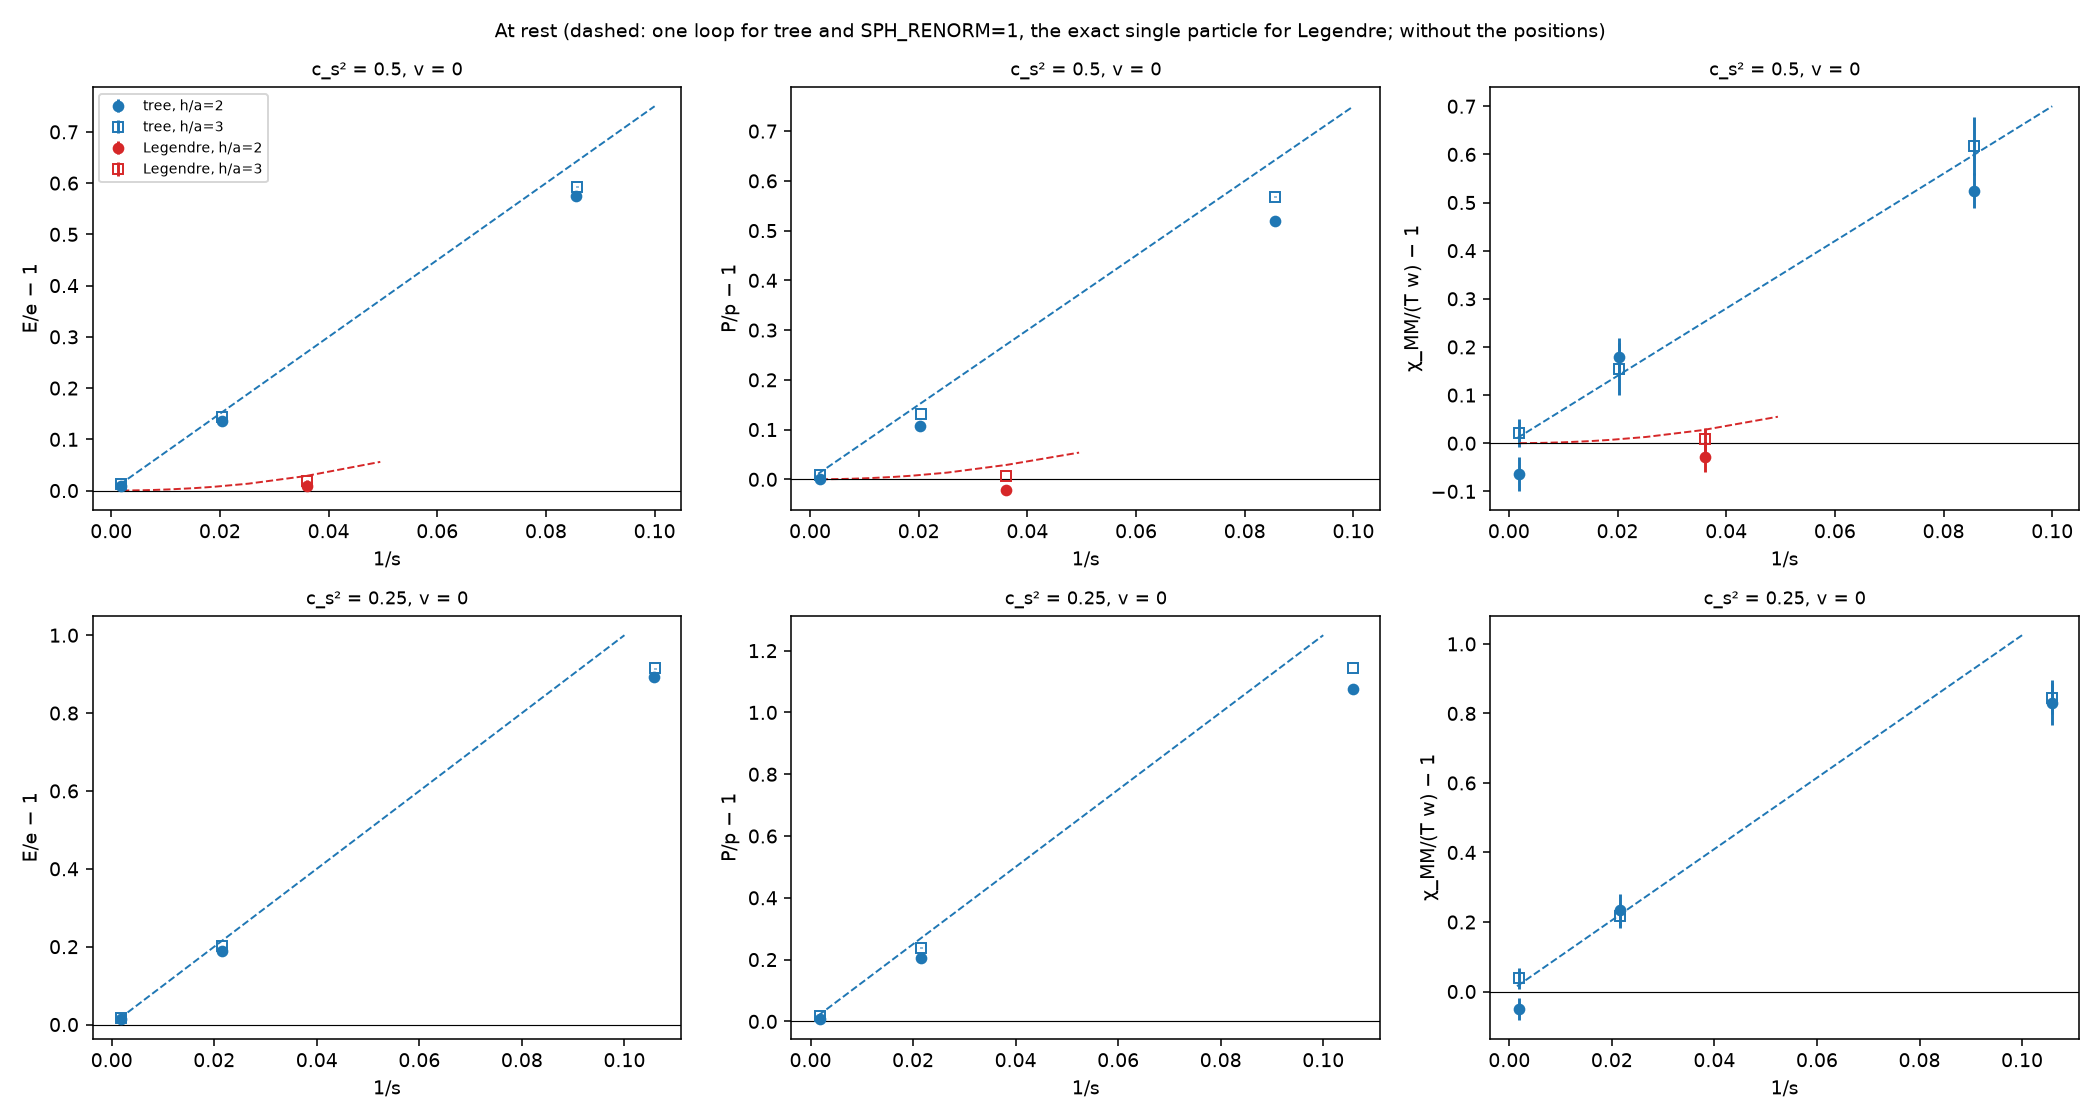
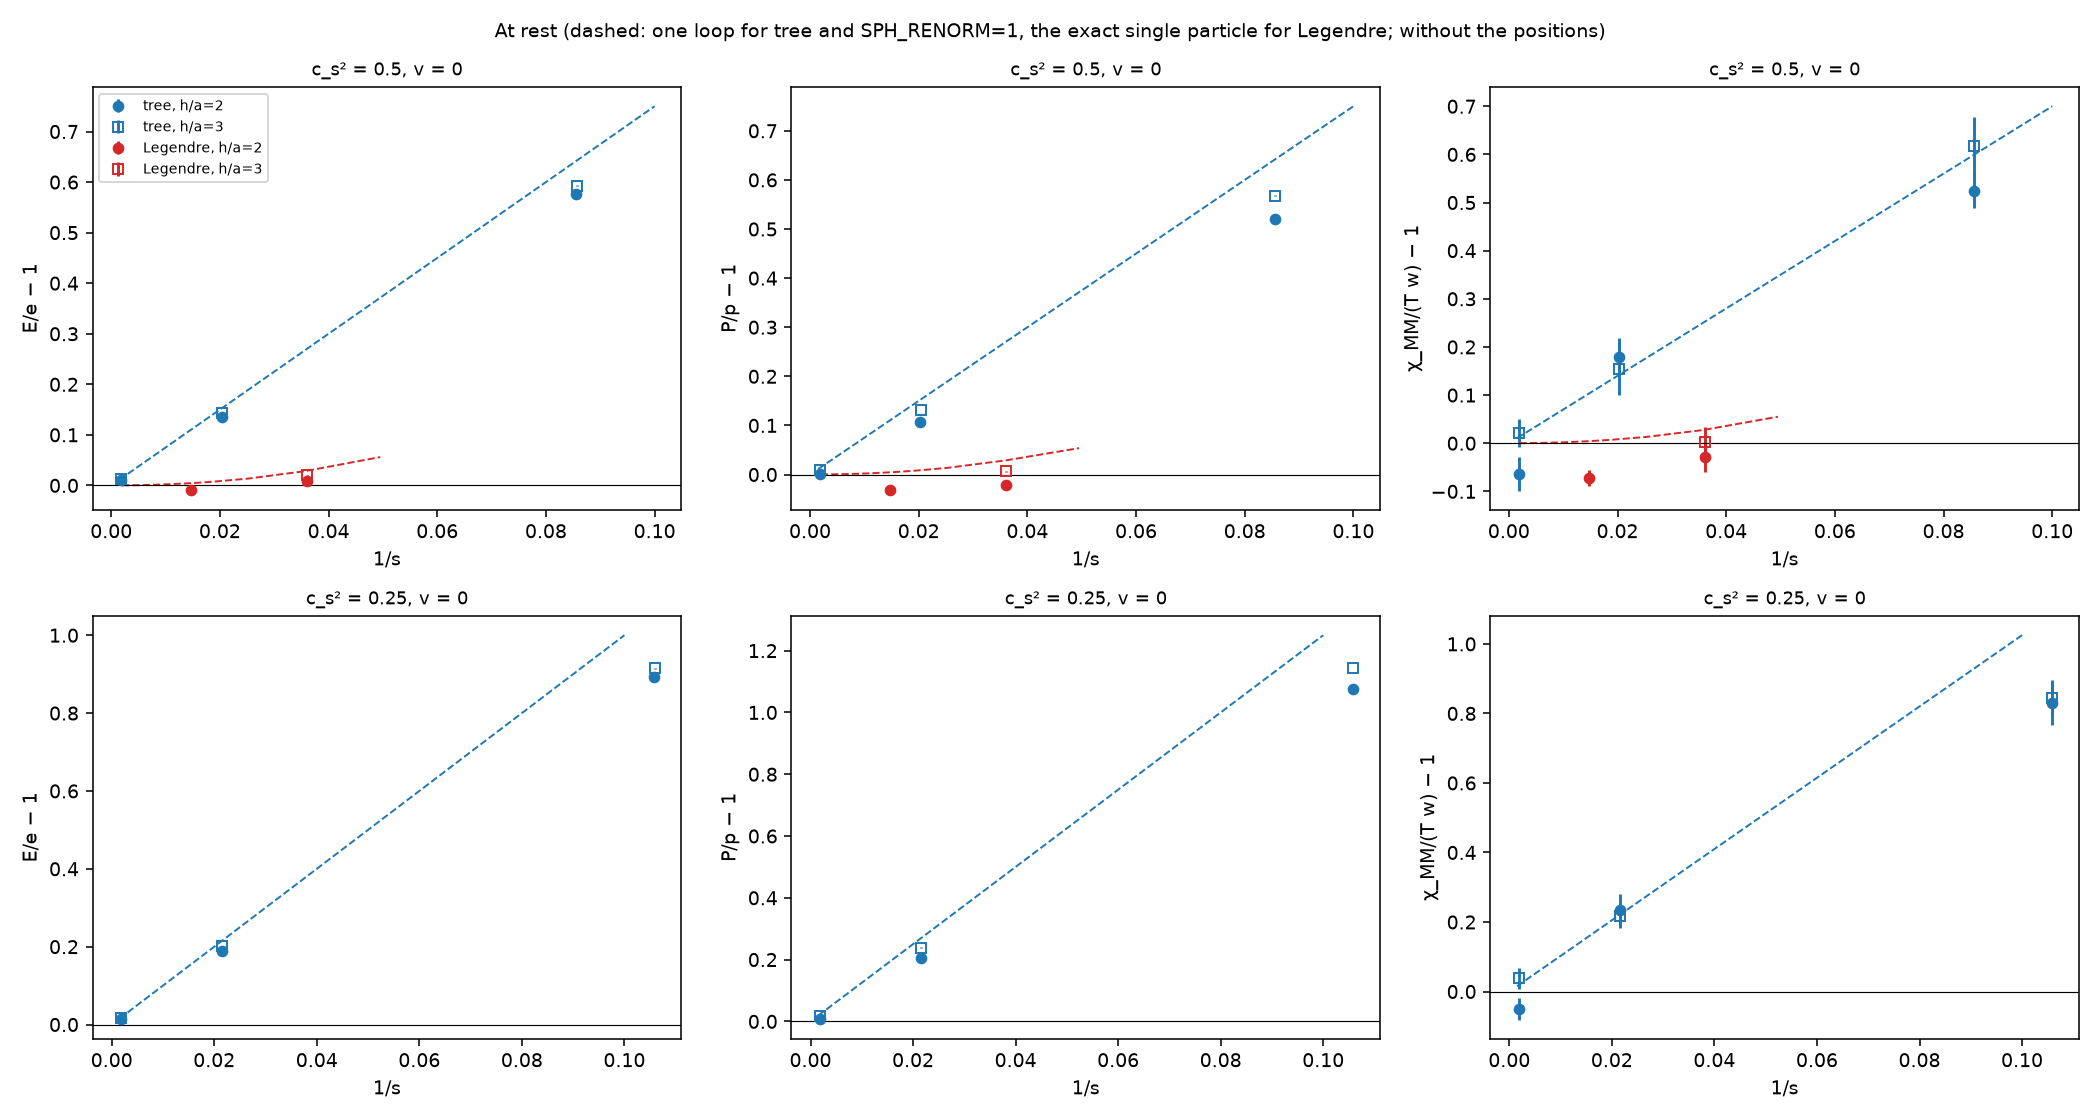
legendre_plan.tex: The campaign shows the current figures (Legendre rerun partial)

diff --git a/docs/legendre_plan.tex b/docs/legendre_plan.tex
@@ -28,6 +28,7 @@
 \def\stp{\end{equation}}
 \def\Eq#1{eq.~(\ref{#1})}
 \def\Sect#1{Sect.~\ref{#1}}
+\def\Fig#1{Fig.~\ref{#1}}
 \def\App#1{Appendix~\ref{#1}}
 \def\tr{\operatorname{tr}}
 \let\oldparagraph\paragraph
@@ -462,6 +463,37 @@ stochastic step on, $S_0=10^5$, $t=20$) drifts by $\Delta H/H=+4.8\times10^{-5}$
 
 \subsection{The campaign}
 
-STATUS-CAMPAIGN
+\emph{Running.}  The tree-level and \texttt{SPH\_RENORM=1} lines are final.  Every Legendre line is being rerun with the fixes of
+items (vi) and (vii) (job 61838799, the rest packed on regular nodes, job 61851444); the figures below are regenerated as its runs
+finish, and so far show the Legendre Hamiltonian (red) only at rest, at $c_s^2=1/2$, $s_a=16$ and (partly) $s_a=54$.  The analysis,
+the table against the expectations, and the reading of the figures follow when the rerun is done.
+
+\begin{figure}[h]
+\centering
+\includegraphics[width=\textwidth]{figs/legendre_EP.png}
+\caption{At rest: $E/e-1$, $P/p-1$ and $\chi_{MM}/(Tw)-1$ against $1/s$, where $s$ is the measured entropy per particle, for
+$c_s^2=1/2$ (top) and $1/4$ (bottom), $h/a=2$ (filled) and $3$ (open).  Blue: tree level; red: the Legendre Hamiltonian.
+Dashed: the one-loop expectation for the tree level, and the exact single-particle quadrature for the Legendre Hamiltonian
+(the correction of the positions is not included in either).}
+\label{fig:legendre_EP}
+\end{figure}
+
+\begin{figure}[h]
+\centering
+\includegraphics[width=\textwidth]{figs/legendre_moving.png}
+\caption{At $v=0.8$: the lab-frame $E/e-1$, $T^{yy}/p-1$, $M/(w\gamma^2v)-1$, and $R=M/(v(E+T^{yy}))-1$ against $1/s$.  Blue: tree
+level; green: \texttt{SPH\_RENORM=1}; red (when finished): the Legendre Hamiltonian.  Dashed in the last column: the one-loop
+$R=-c_s^2(1-v^2)^2/((1-c_s^2v^2)s)$ for the tree level and \texttt{SPH\_RENORM=1}; red: the exact Legendre single particle.}
+\label{fig:legendre_moving}
+\end{figure}
+
+\begin{figure}[h]
+\centering
+\includegraphics[width=\textwidth]{figs/legendre_chi.png}
+\caption{The susceptibility matrix from the canonical covariances, relative to the target: $(\partial E/\partial T)_v$,
+$(\partial M/\partial v)_T$, $(\partial E/\partial v)_T$, $(\partial M/\partial T)_v$ at $v=0.8$, and $(\partial E/\partial T)$ at
+$v=0$ (last column), with jackknife errors.  Colours as in \Fig{fig:legendre_moving}; red dashed: the exact Legendre single particle.}
+\label{fig:legendre_chi}
+\end{figure}
 
 \end{document}
